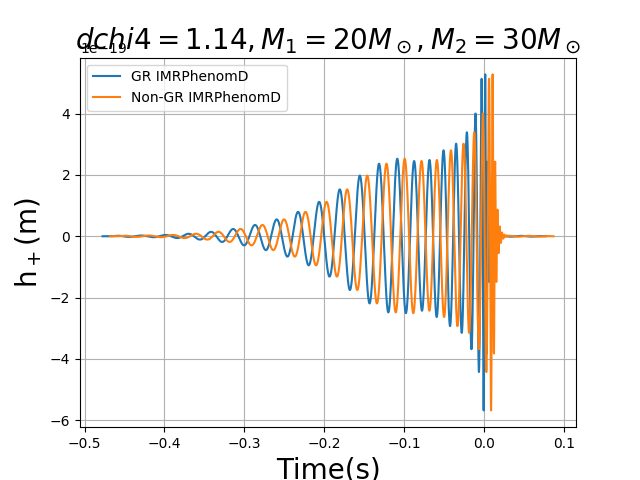
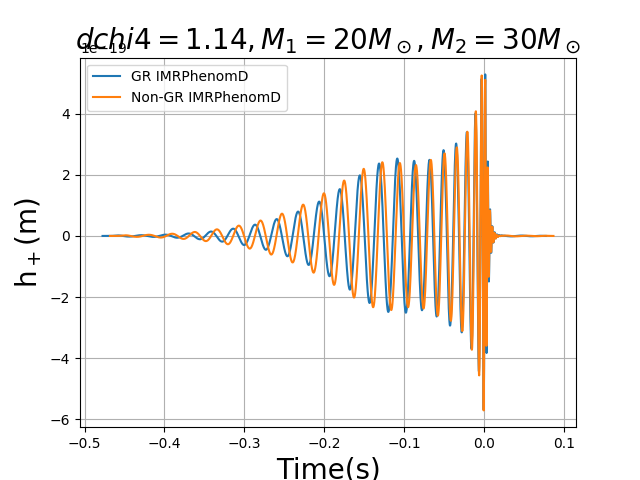
Changing the plots

Changed region(s): [[0.125, 0.1562, 0.875, 0.875], [0.0938, 0.8438, 0.125, 0.9062], [0.0938, 0.4688, 0.125, 0.5]]

diff --git a/nonGR_IMRPhenomD.py b/nonGR_IMRPhenomD.py
@@ -87,7 +87,7 @@ for nonGR in nGR:
 	'''
 	plt.figure('%s'%nonGR)
 	plt.plot(hp.sample_times, hp, label = 'GR IMRPhenomD')
-	plt.plot(sp.sample_times, hp, label = 'Non-GR IMRPhenomD')
+	plt.plot(sp.sample_times, sp, label = 'Non-GR IMRPhenomD')
 	plt.xlabel('Time(s)', fontsize = 20)
 	plt.ylabel('h$_+$(m)', fontsize = 20)
 	plt.title(('$%s = %.2f, M_1 = 20 M_\odot, M_2 = 30 M_\odot$'%(nonGR,j)), fontsize = 20)	
